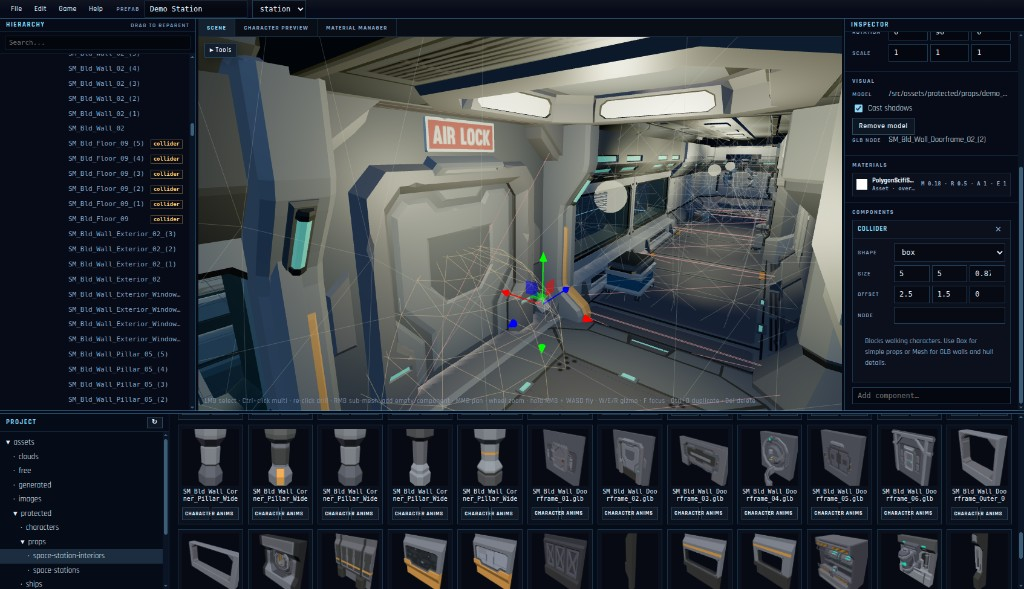
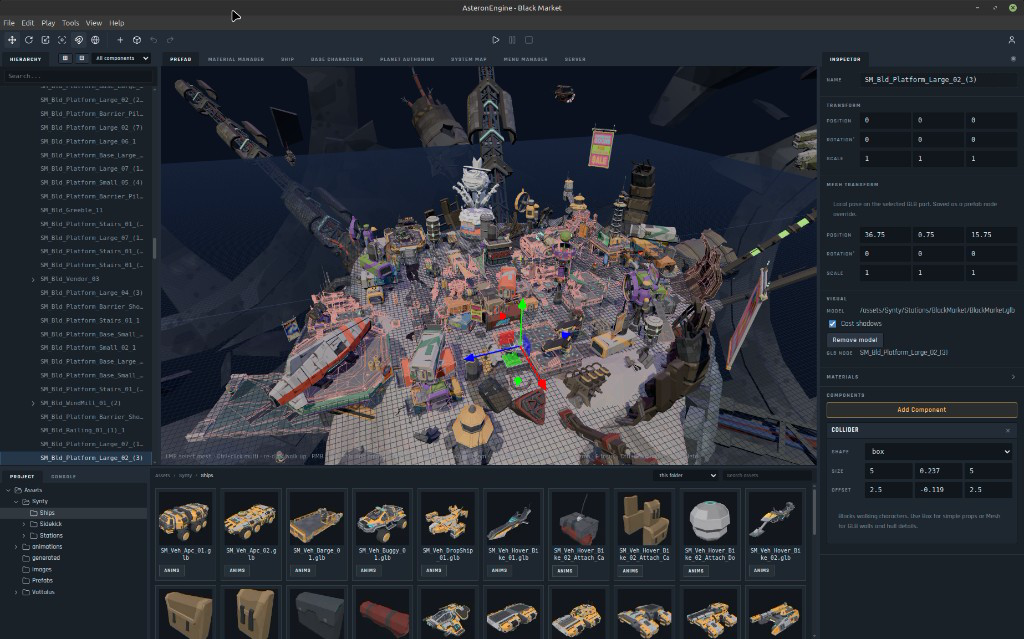
Update README.md to enhance project description and clarify AsteronEngine functionality
- Add a new screenshot of the AsteronEngine editor to showcase its interface.
- Revise project description to emphasize the all-in-one nature of ClaudeCitizen, including its features and development philosophy.
- Streamline sections on scene management, project setup, and gameplay mechanics for clarity.
- Update documentation on shipping the game and project structure to reflect recent changes and improve user guidance.

These changes aim to provide clearer insights into the project and enhance the overall documentation for users and contributors.

diff --git a/README.md b/README.md
@@ -1,21 +1,23 @@
 # ClaudeCitizen
 
-![ClaudeCitizen banner](src/assets/images/banner-with-logo.png)
-
 ![ClaudeCitizen gameplay screenshot](docs/static/img/screenshot.png)
+
+![AsteronEngine editor screenshot](docs/static/img/editor-screenshot.png)
 
 [![Buy me a coffee](https://img.buymeacoffee.com/button-api/?text=Buy%20me%20a%20coffee&emoji=%E2%98%95&slug=alangreyjoy&button_colour=FFDD00&font_colour=000000&font_family=Cookie&outline_colour=000000&coffee_colour=ffffff)](https://www.buymeacoffee.com/alangreyjoy)
 
 > [!NOTE]
-> This is a passion project — if you'd like to show your support, every donation goes straight to feeding the **Claude Fable 5** beast that keeps this thing going.
+> Passion project. Vibe coded end to end. Staff Software Engineer / Solutions Architect, 17+ years — this is the sandbox, not a shipping product. Every donation feeds the **Claude Fable 5** beast that keeps this thing going.
 
-A space sandbox inspired by Star Citizen — procedural planets, ship flight, on-foot exploration, and seamless surface-to-orbit transitions. Content is authored in **AsteronEngine**, a Unity-style Electron editor built on TypeScript and Three.js, and shipped to the browser through **File → Build Web**. Online play uses one authoritative Rust backend with native Rapier, shared Rust/WASM prediction, Protobuf over WebTransport, PostgreSQL/SQLx, and Redis.
+**ClaudeCitizen** is an all-in-one space sim: Unity-style editor, game runtime, and authoritative multiplayer backend in one repo.
 
-The homeworld is **Asteron**: Earth-scale radius, deterministic terrain, lakes, vegetation, volumetric clouds, and a full atmospheric shell.
+Author planets, ships, stations, characters, menus, and scenes in **AsteronEngine** — an Electron editor on TypeScript + Three.js. Hit Play in the Game view. Ship a browser build with **File → Build Web**. Run online against one Rust backend (Rapier authority, shared WASM prediction, Protobuf over WebTransport, PostgreSQL/SQLx, Redis).
 
-This project is **100% vibe coded** — built iteratively with AI-assisted development rather than a formal spec. I'm a Staff Software Engineer and Solutions Architect with 17+ years of experience; this is a passion sandbox, not a production product.
+Star Citizen–style loop: procedural Earth-scale homeworld **Asteron**, ship flight, on-foot exploration, seamless surface-to-orbit. Scenes are GameObject trees; prefabs, components, and project settings drive everything — no separate web client or admin app.
 
-**Work in progress.** Phase 1 is third-person weapons and over-the-shoulder character-controller updates.
+The goal is simple: put a full space-sim toolkit in anyone's hands — so you can build your own universe without starting from a blank engine.
+
+**Work in progress.** Phase 1 focus: third-person weapons and over-the-shoulder character control.
 
 ## Quick start
 
@@ -24,65 +26,51 @@ npm install
 npm run editor:dev
 ```
 
-There are exactly two surfaces: the **AsteronEngine editor** and the **Rust
-backend**. Everything else — the shipped game included — is produced by the
-editor.
+Two surfaces only: **AsteronEngine** and the **Rust backend**. The shipped game is a build artifact of the editor.
 
-Cold start opens the **Projects** hub. Create or open a project, and the editor
-workspace loads that project's scenes, prefabs, planets, and assets.
+Cold start opens the **Projects** hub. Create or open a project → editor loads that project's scenes, prefabs, planets, and assets.
 
-## AsteronEngine editor
+## AsteronEngine
 
 ```bash
-# Launch with Vite HMR / React Fast Refresh (day-to-day)
+# Day-to-day: Vite HMR + React Fast Refresh
 npm run editor:dev
 
-# Production-like: build dist-editor, then launch Electron
+# Production-like Electron launch
 npm run editor
 
-# Create an unpacked editor under release/editor/
+# Unpacked editor under release/editor/
 npm run build:editor:desktop
 
-# Create the current platform's editor distributable
+# Platform distributable
 npm run editor:desktop:package
 ```
 
-Skip the Projects hub with `--project-root=/path/to/project` or
-`CLAUDECITIZEN_EDITOR_PROJECT_ROOT`.
+Skip the hub with `--project-root=/path/to/project` or `CLAUDECITIZEN_EDITOR_PROJECT_ROOT`.
 
-**Scenes own their content.** A scene document (`src/world/scenes/data/*.scene.json`)
-is a GameObject tree; components on those objects decide what the scene is:
+**Scenes own content.** A scene (`*.scene.json`) is a GameObject tree; components decide what it is:
 
-| Component | Role |
-|-----------|------|
-| `game-manager` | System, planet, and spawn mode |
-| `planet` | Planet document reference |
-| `player-start` | Spawn pose and mode |
-| `prefab-instance` | Places a reusable prefab |
-| `ui-screen` | Mounts title / login / character-create / loading UI |
-| `scene-link` | Transition target for menu flow |
-| `instanced-scene` | Marks per-player content such as habs and hangars |
+| Component         | Role                                          |
+| ----------------- | --------------------------------------------- |
+| `game-manager`    | System, planet, spawn mode                    |
+| `planet`          | Planet document reference                     |
+| `player-start`    | Spawn pose and mode                           |
+| `prefab-instance` | Places a reusable prefab                      |
+| `ui-screen`       | Title / login / character-create / loading UI |
+| `scene-link`      | Menu-flow transition target                   |
+| `instanced-scene` | Per-player content (habs, hangars)            |
 
-**Play / Pause / Stop** run the open document in the Game view, unsaved edits
-included — F6 plays and stops, F7 pauses. Right-click a GameObject and choose
-**Create Prefab from Selection** to extract it into a prefab and leave a
-`prefab-instance` behind.
+**F6** play/stop, **F7** pause — open document in the Game view, unsaved edits included. Right-click a GameObject → **Create Prefab from Selection**.
 
-The **Server** tab is the operator console for the deployed backend: player
-records, catalog definitions (ships, props, items, weapons, backpacks,
-wearables), and game settings, all live against PostgreSQL.
+**Server** tab talks live to the backend: players, catalog (ships, props, items, weapons, backpacks, wearables), game settings.
 
-## Shipping the game
+## Shipping
 
-**File → Build Web** writes the release into the project's build output
-directory and stamps `asteron.runtime.json` beside it with the backend URL and
-boot scene from **File → Project Settings…**. The same bundle can target any
-deployment by re-stamping that file. Players sign in with their own accounts, so
-no key is shipped to the client.
+**File → Build Web** writes the release into the project's build output and stamps `asteron.runtime.json` with backend URL + boot scene from **Project Settings**. Re-stamp that file to retarget deploys. Players sign in with accounts — no client API key.
 
 ## Documentation
 
-Full docs — editor guide, controls, roadmap, planet tech, deployment, and engineering notes:
+Full docs — editor guide, controls, roadmap, planet tech, deployment, engineering:
 
 - **Online:** [https://claudecitizen-docs.netlify.app/](https://claudecitizen-docs.netlify.app/)
 - **Local:** `npm run docs:dev` → [http://localhost:3000](http://localhost:3000)
